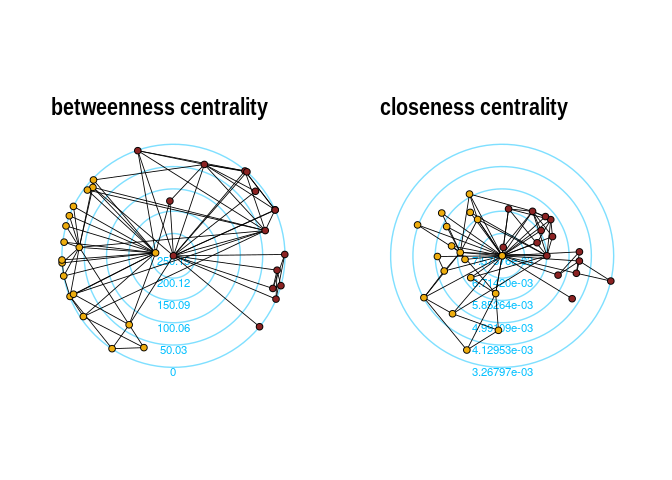
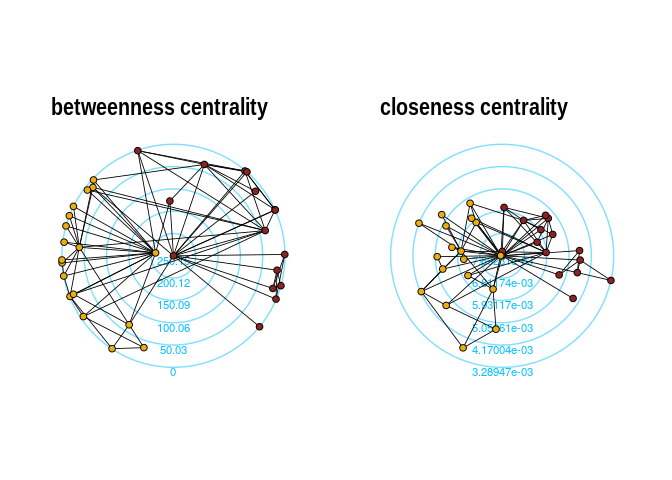
added umap layout

Changed region(s): [[0.625, 0.375, 0.9062, 0.7812]]

diff --git a/cran-comments.md b/cran-comments.md
@@ -1,7 +1,8 @@
-# Update from 0.7.1 to 0.7.2
 
-fixed bug in `layout_with_stress3D` which only produced a 2D layout. No user facing changes.
-changed http to https for paper links
+# Update from 0.7.2 to 0.8.0
+
+added `layout_with_umap()`  
+changed maintainer email address
 
 ## Downstream dependencies
 
@@ -18,7 +19,7 @@ There were no ERRORs, WARNINGs
 There was 1 NOTE on Ubuntu:
 
 checking installed package size ... NOTE  
-installed size is  7.1Mb  
+installed size is  9.2Mb  
 sub-directories of 1Mb or more:  
       help   2.4Mb
-      libs   4.5Mb
+      libs   6.6Mb

diff --git a/README.md b/README.md
@@ -29,6 +29,7 @@ The package implements the following algorithms:
     ([Paper](https://kops.uni-konstanz.de/bitstream/handle/123456789/20924/Brandes_209246.pdf?sequence=2))
 -   spectral layouts (adjacency/Laplacian)
 -   a simple multilevel layout
+-   a layout algorithm using UMAP
 
 ## Install
 

diff --git a/NEWS.md b/NEWS.md
@@ -1,3 +1,7 @@
+# graphlayouts 0.8.0
+
+* added `layout_with_umap()`
+
 # graphlayouts 0.7.2
 
 * fixed description of `bbox` in `layout_with_stress`
